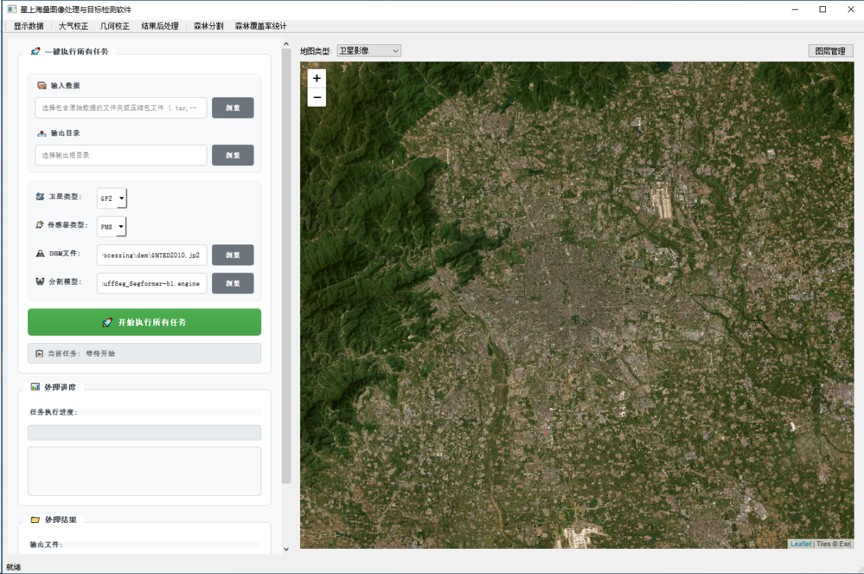
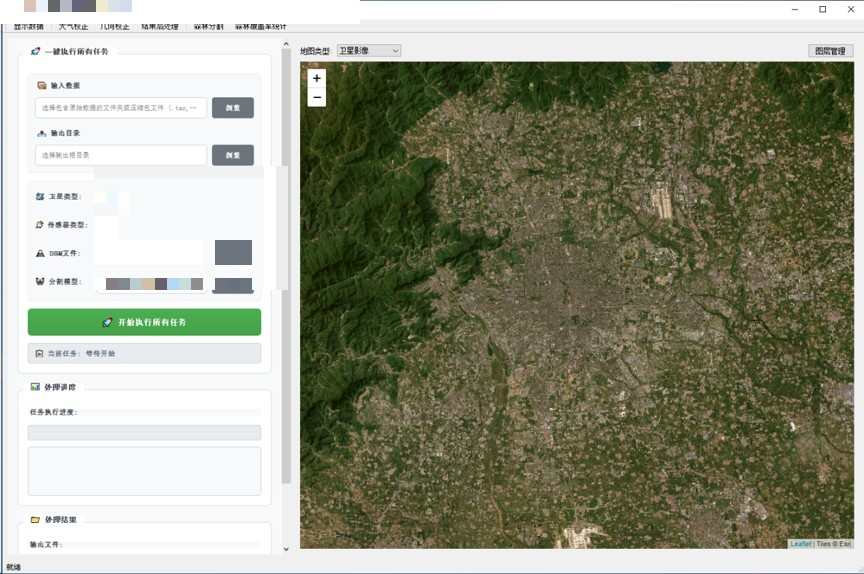
对实习软件截图打码，隐藏界面内的内部标识
- software-ui.jpg：窗口标题栏的产品名，以及左侧参数区四个值（卫星类型、传感器类型、DEM 文件名、分割模型文件名）改为马赛克，界面其余部分保持原样
- 原始 PNG 未作修改，仍保留在 assets/project/internship/（由 .gitignore 排除）
- 同步更新 assets/project/README.md 中的截图说明

diff --git a/assets/project/README.md b/assets/project/README.md
@@ -73,4 +73,4 @@
 
 **保密处理**：同一批材料中的《产品研制总结报告》等文档标注了密级、编号与内部签署信息，属于委托方内部资料，其内容一律未进入本站。以下信息也刻意未写入公开正文：具体卫星型号与业务数据来源、研究区域、内部精度与耗时指标、模型引擎文件名、推理输入图块尺寸，以及在轨（星上）部署相关内容。公开正文只保留用户简历中已披露的技术范围，并且只描述部署与工程落地工作，不涉及模型训练或调参。
 
-两张原始 PNG 仍保留在 `internship/` 目录，由 `.gitignore` 排除，不随网站发布。注意 `software-ui.jpg` 为原始界面截图，其中可见卫星类型、传感器类型与模型文件名等信息；如需进一步收紧，可裁剪窗口标题栏或对左侧参数区打码后重新生成。
+两张原始 PNG 仍保留在 `internship/` 目录，由 `.gitignore` 排除，不随网站发布。注意：`software-ui.jpg` 已对关键信息打码 —— 窗口标题栏的产品名，以及左侧参数区的四个值（卫星类型、传感器类型、DEM 文件名、分割模型文件名）均以马赛克覆盖，界面其余部分保持原样，仍然能看出这是一套带地图叠加与批量处理的桌面软件。原始 PNG 未被修改，仍保留在 `internship/` 目录（由 `.gitignore` 排除）。
